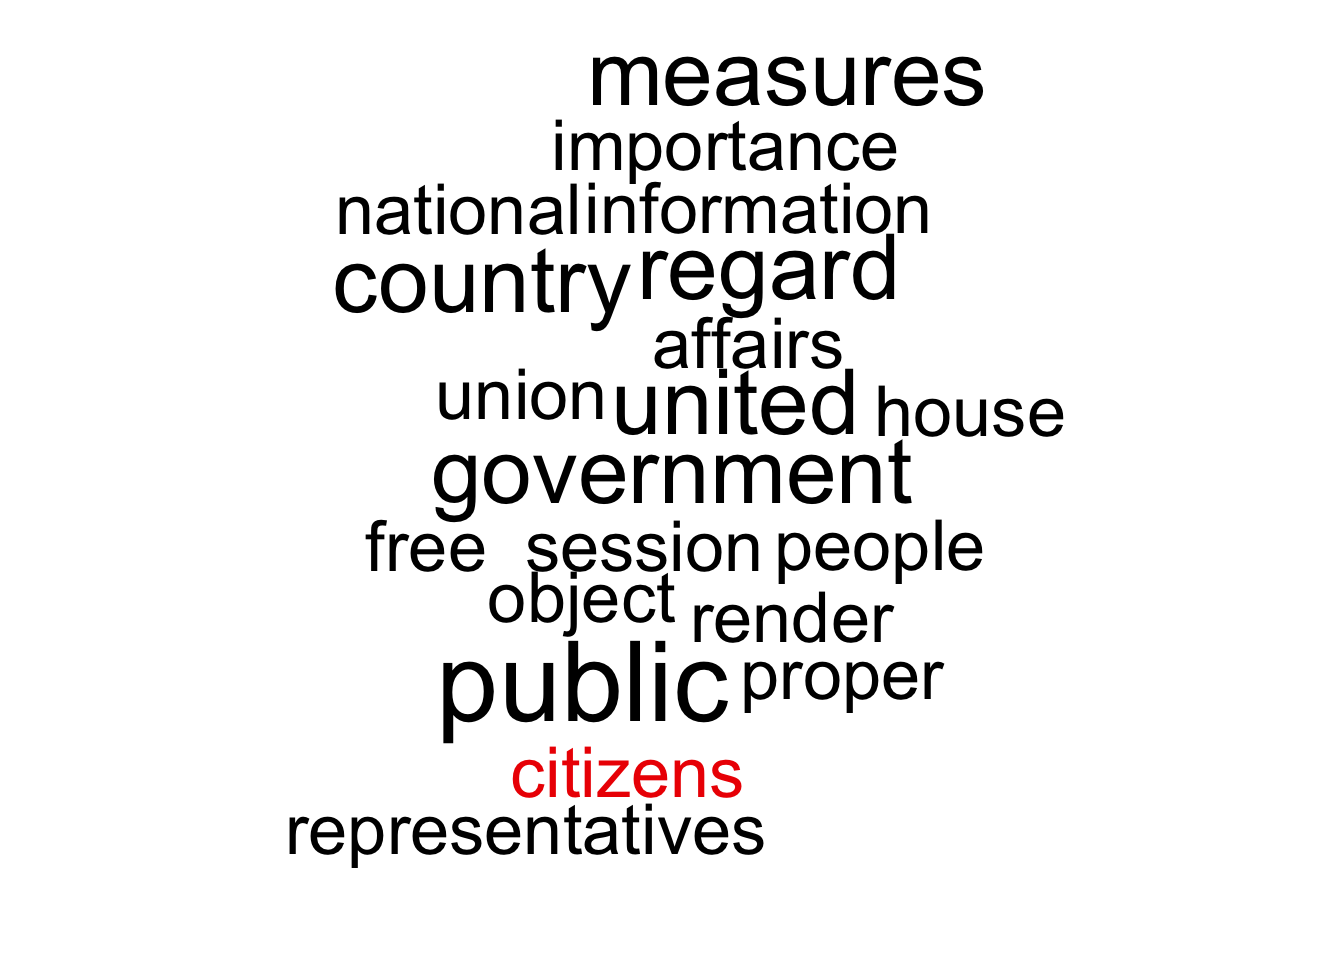
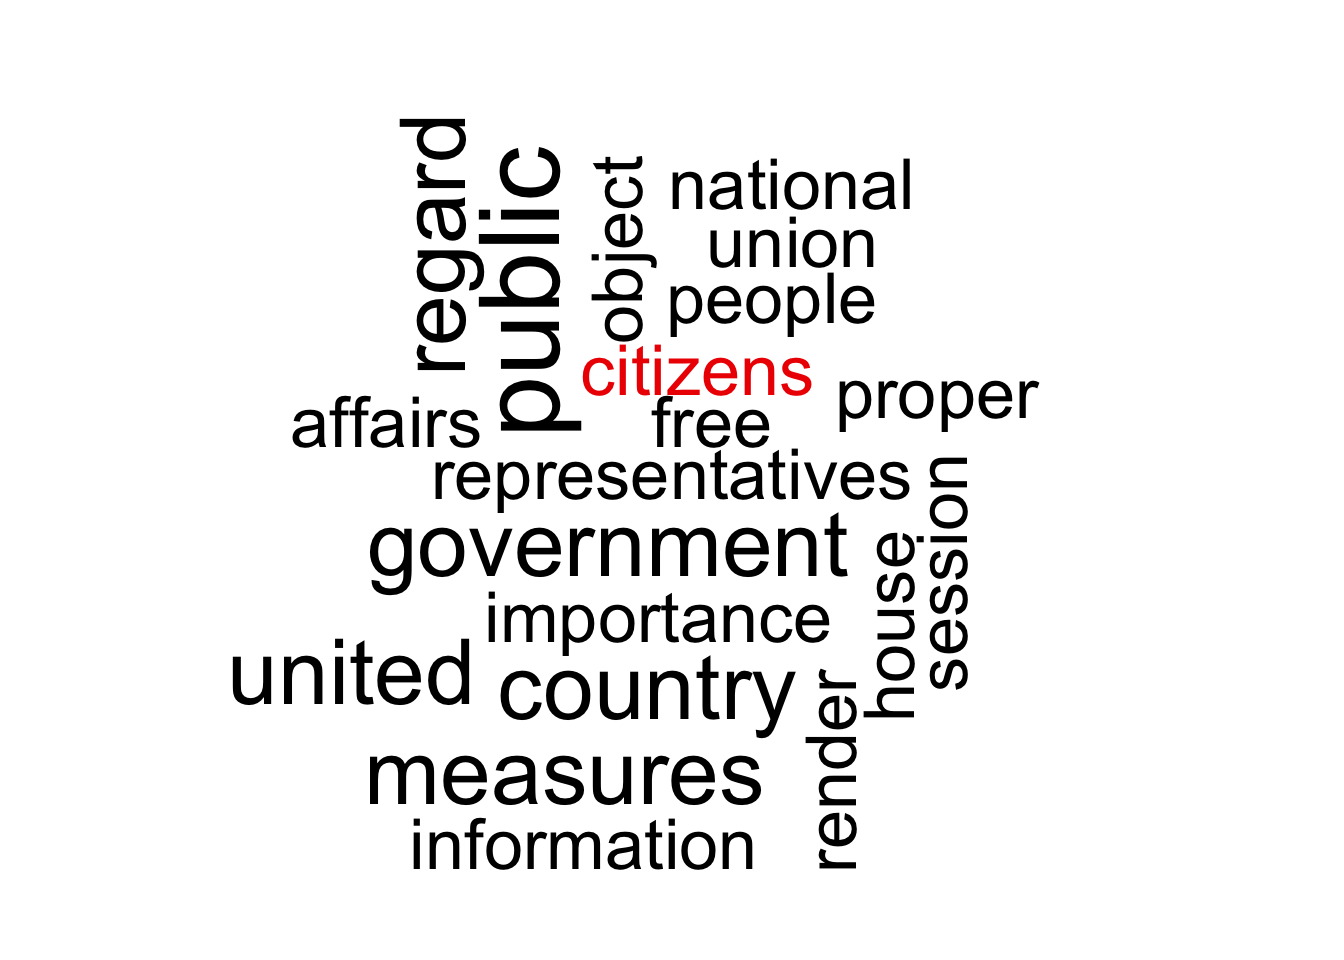
fix color

Changed region(s): [[0.1562, 0.0625, 0.8125, 0.9062]]

diff --git a/docs/11-TextasData.html b/docs/11-TextasData.html
@@ -1003,11 +1003,12 @@ Try on your own, then expand for an example.
 6 We Are Never Ever Getting Back Together (Taylor's Version)   ooh  50</code></pre>
 </div>
 <div class="sourceCode cell-code" id="cb81"><pre class="sourceCode r code-with-copy"><code class="sourceCode r"><span id="cb81-1"><a href="#cb81-1" aria-hidden="true" tabindex="-1"></a>red_words <span class="ot">&lt;-</span> <span class="fu">subset</span>(token_counts_taylor, track_name <span class="sc">==</span> <span class="st">"Red (Taylor's Version)"</span>)</span>
-<span id="cb81-2"><a href="#cb81-2" aria-hidden="true" tabindex="-1"></a>colors_taylor <span class="ot">&lt;-</span> <span class="fu">ifelse</span>(red_words<span class="sc">$</span>word<span class="sc">==</span><span class="st">"red"</span>, <span class="st">"red3"</span>, <span class="st">"black"</span>)</span>
+<span id="cb81-2"><a href="#cb81-2" aria-hidden="true" tabindex="-1"></a>red_words<span class="sc">$</span>colors_taylor <span class="ot">&lt;-</span> <span class="fu">ifelse</span>(red_words<span class="sc">$</span>word<span class="sc">==</span><span class="st">"red"</span>, <span class="st">"red3"</span>, <span class="st">"black"</span>)</span>
 <span id="cb81-3"><a href="#cb81-3" aria-hidden="true" tabindex="-1"></a><span class="fu">wordcloud</span>(red_words<span class="sc">$</span>word, red_words<span class="sc">$</span>n, <span class="at">max.words =</span> <span class="dv">20</span>,</span>
-<span id="cb81-4"><a href="#cb81-4" aria-hidden="true" tabindex="-1"></a>          <span class="at">col=</span>colors_taylor,</span>
-<span id="cb81-5"><a href="#cb81-5" aria-hidden="true" tabindex="-1"></a>          <span class="at">ordered.colors=</span>T,</span>
-<span id="cb81-6"><a href="#cb81-6" aria-hidden="true" tabindex="-1"></a>          <span class="at">scale=</span><span class="fu">c</span>(<span class="fl">2.5</span>, .<span class="dv">25</span>))</span></code><button title="Copy to Clipboard" class="code-copy-button"><i class="bi"></i></button></pre></div>
+<span id="cb81-4"><a href="#cb81-4" aria-hidden="true" tabindex="-1"></a>          <span class="at">colors =</span>red_words<span class="sc">$</span>colors_taylor,</span>
+<span id="cb81-5"><a href="#cb81-5" aria-hidden="true" tabindex="-1"></a>          <span class="at">ordered.colors =</span> <span class="cn">TRUE</span>, </span>
+<span id="cb81-6"><a href="#cb81-6" aria-hidden="true" tabindex="-1"></a>              <span class="at">random.color =</span> <span class="cn">FALSE</span>,</span>
+<span id="cb81-7"><a href="#cb81-7" aria-hidden="true" tabindex="-1"></a>          <span class="at">scale=</span><span class="fu">c</span>(<span class="fl">2.5</span>, .<span class="dv">25</span>))</span></code><button title="Copy to Clipboard" class="code-copy-button"><i class="bi"></i></button></pre></div>
 <div class="cell-output-display">
 <div>
 <figure class="figure">
